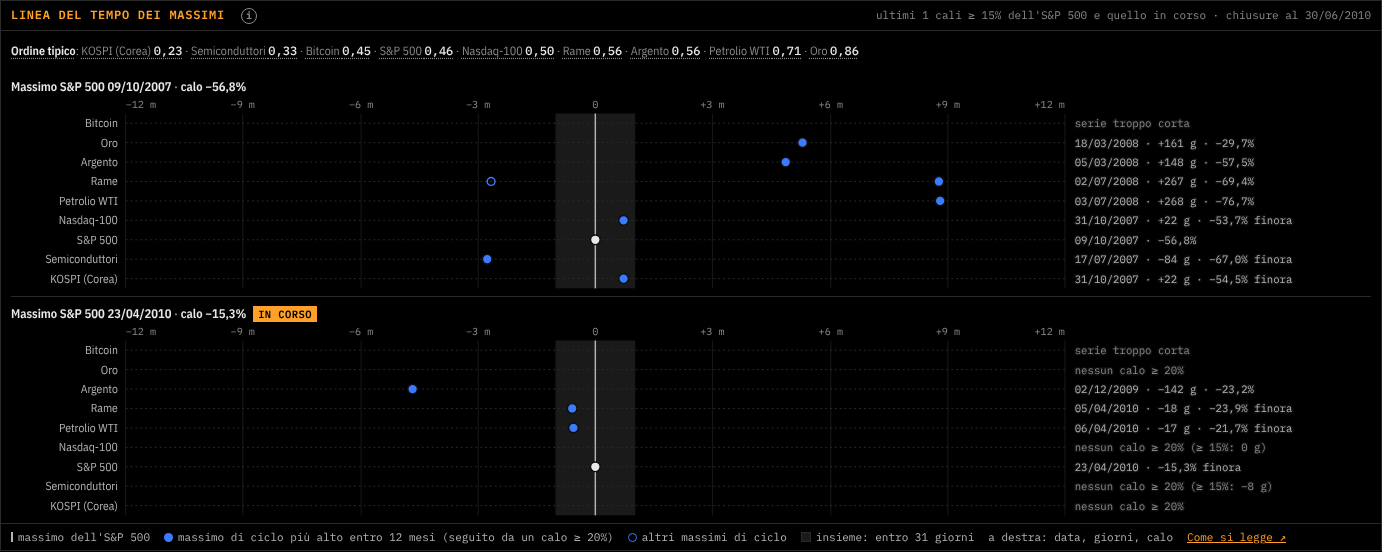
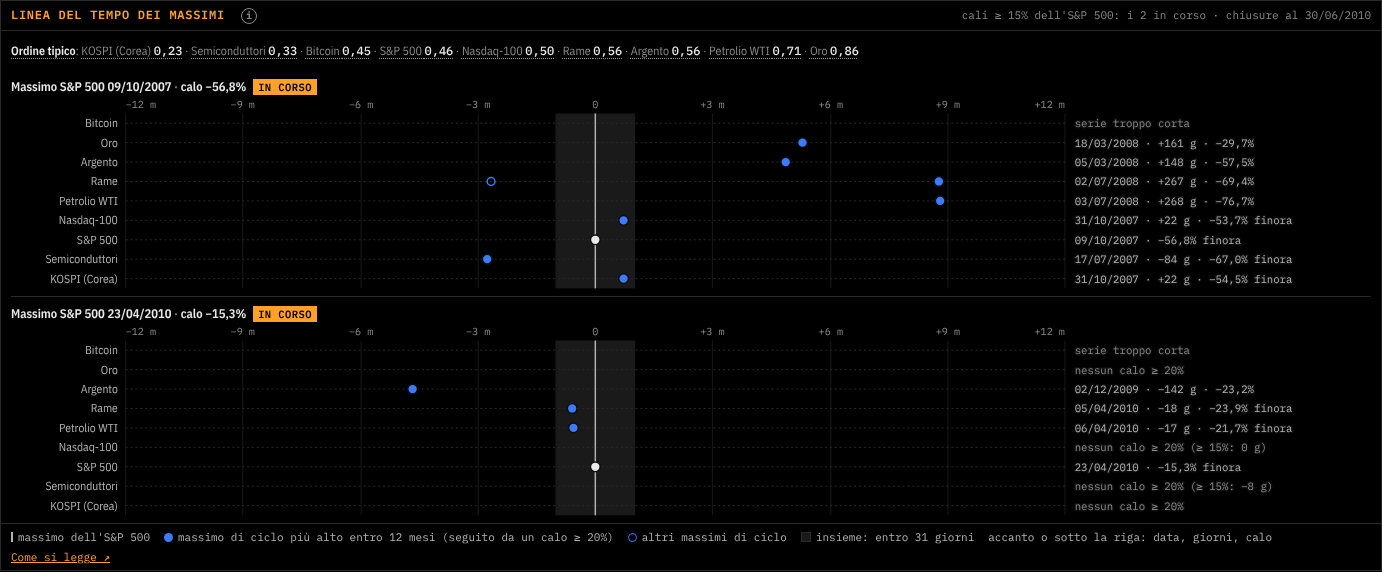
1.12.0: testi dai ricontrolli (legenda, intestazione al singolare e sotto il 15%, date dei due riquadri in corso, storico corto)
Claude-Session: https://claude.ai/code/session_01BMe5Kfp9wfPpuLZYEwjpMc

diff --git a/guida.html b/guida.html
@@ -474,11 +474,11 @@
     </ul>
 
     <h3 id="linea-massimi">Linea del tempo dei massimi</h3>
-    <p>Sotto il pannello, per gli <b>ultimi 4 cali dell'S&amp;P 500 di almeno il 15%</b> e per quello <b>in corso</b>, un riquadro per calo e una riga per mercato: la linea verticale è il giorno del massimo di chiusura dell'S&amp;P 500, il <b>punto pieno</b> il giorno del massimo di ciclo del mercato entro 12 mesi prima o dopo, i <b>cerchi vuoti</b> gli altri massimi di ciclo nella stessa finestra, la fascia grigia «insieme» (entro 31 giorni). A destra (sul telefono sotto la riga) la data, i giorni di calendario dal massimo dell'S&amp;P 500 (negativi = prima) e il calo massimo. Il cerchio e il punto, al passaggio del mouse, ripetono i loro numeri. È <b>solo descrizione</b>: nessun avviso, nessun segnale.</p>
+    <p>Sotto il pannello, per gli <b>ultimi 4 cali dell'S&amp;P 500 di almeno il 15%</b> e per quello <b>in corso</b> (a volte due, vedi sotto), un riquadro per calo e una riga per mercato: la linea verticale è il giorno del massimo di chiusura dell'S&amp;P 500, il <b>punto pieno</b> il giorno del massimo di ciclo del mercato entro 12 mesi prima o dopo, i <b>cerchi vuoti</b> gli altri massimi di ciclo nella stessa finestra, la fascia grigia «insieme» (entro 31 giorni). A destra (con la finestra stretta, sotto la riga) la data, i giorni di calendario dal massimo dell'S&amp;P 500 (negativi = prima) e il calo massimo. Il cerchio e il punto, al passaggio del mouse, ripetono i loro numeri. È <b>solo descrizione</b>: nessun avviso, nessun segnale.</p>
     <ul>
       <li><b>Massimo di ciclo</b>: una chiusura più alta di tutte quelle dei 365 giorni prima (massimo di 52 settimane), dopo la quale il prezzo scende di almeno il <b>20%</b> prima di tornare sopra. Il punto pieno è, tra i massimi di ciclo nella finestra, quello con la chiusura più alta. Il calo massimo è la chiusura più bassa dopo il massimo, fino al ritorno sopra o fino al massimo di ciclo successivo, se viene prima (senza questa regola i massimi del petrolio del 2008, 2011 e 2013 finirebbero tutti nella chiusura sotto zero del 20/04/2020). «Sotto zero»: il calo passa il 100% e non si scrive come numero. I cali dell'S&amp;P 500 si contano allo stesso modo, con la soglia del 15%.</li>
-      <li><b>Calo in corso</b>: parte dal massimo di un calo dell'S&amp;P 500 di almeno il 15% non ancora recuperato; se non ce n'è, dall'ultimo massimo di 52 settimane non ancora superato. Così un calo grande resta in vista finché l'S&amp;P 500 non torna sopra il suo massimo, anche se nel frattempo fa massimi di 52 settimane più bassi (al 31/07/2023, per esempio, il riquadro resta quello del calo del 2022). Quando un calo nuovo parte sotto un massimo più vecchio non ancora recuperato i riquadri in corso sono due (era così a giugno 2010: il calo dal 2007 e quello da aprile 2010). I cali con «finora» non sono finiti e cambiano ogni giorno; se l'S&amp;P 500 fa un nuovo massimo, il riquadro riparte da lì. Un mercato che non ha ancora perso il 20% dal suo massimo risulta «nessun calo ≥ 20%», anche se nella tabella sopra è vicino (tra parentesi lo scarto con la soglia del 15%, se c'è). Per questo la linea del tempo può dire cose diverse dalla tabella, che usa il massimo degli ultimi 3 anni e nessuna soglia.</li>
-      <li><b>Ordine tipico</b>, la riga sopra i riquadri: negli 8 cali dell'S&amp;P 500 di almeno il 15% dal 2000 al 2025 (2000, 2007, 2010, 2011, 2018, 2020, 2022, 2025), per ogni calo i mercati con un massimo nella finestra si mettono in fila per data; il rango va da 0 (primo) a 1 (ultimo) e se ne fa la media. KOSPI 0,23, semiconduttori 0,33, bitcoin 0,45, S&amp;P 500 0,46, Nasdaq-100 0,50, rame 0,56, argento 0,56, petrolio 0,71, oro 0,86. Il KOSPI e i semiconduttori fanno di solito il massimo per primi (in mediana 80 e 71 giorni prima dell'S&amp;P 500); il KOSPI non l'ha mai fatto più di un mese dopo, i semiconduttori una volta (2010). Il Nasdaq-100 lo fa insieme all'S&amp;P 500 in 5 dei 6 cali in cui ha avuto un calo del 20%. L'oro arriva dopo in tutti i 5 cali in cui ha fatto un massimo di ciclo (in mediana 161 giorni dopo). Il bitcoin non ha un posto fisso e ha dati solo per 4 cali. Al passaggio del mouse su ogni mercato: in quanti cali c'è, quante volte prima, insieme e dopo, lo scarto mediano. Sono i numeri della ricerca, fermi al 20/11/2026: l'app non li ricalcola, perché il calo del 2000 richiede chiusure del 1999 che il suo file non ha.</li>
+      <li><b>Calo in corso</b>: parte dal massimo di un calo dell'S&amp;P 500 di almeno il 15% non ancora recuperato; se non ce n'è, dall'ultimo massimo di 52 settimane non ancora superato. Così un calo grande resta in vista finché l'S&amp;P 500 non torna sopra il suo massimo, anche se nel frattempo fa massimi di 52 settimane più bassi (al 31/07/2023, per esempio, il riquadro resta quello del calo del 2022). Quando un calo nuovo parte sotto un massimo più vecchio non ancora recuperato i riquadri in corso sono due (era così dal 30/06/2010 al 03/11/2010, con il calo dal 2007 e quello da aprile 2010, e dall'08/08/2011 al 23/02/2012, con il 2007 e aprile 2011). I cali con «finora» non sono finiti e cambiano ogni giorno; se l'S&amp;P 500 supera il massimo del riquadro, il calo diventa concluso (se era di almeno il 15%) e il riquadro in corso riparte dal massimo nuovo. Quando il calo in corso è sotto il 15% l'intestazione lo dice («finora sotto il 15%»). Un mercato che non ha ancora perso il 20% dal suo massimo risulta «nessun calo ≥ 20%», anche se nella tabella sopra è vicino (tra parentesi lo scarto con la soglia del 15%, se c'è). Per questo la linea del tempo può dire cose diverse dalla tabella, che usa il massimo degli ultimi 3 anni e nessuna soglia.</li>
+      <li><b>Ordine tipico</b>, la riga sopra i riquadri: negli 8 cali dell'S&amp;P 500 di almeno il 15% dal 2000 al 2025 (2000, 2007, 2010, 2011, 2018, 2020, 2022, 2025), per ogni calo i mercati con un massimo nella finestra si mettono in fila per data; il rango va da 0 (primo) a 1 (ultimo) e se ne fa la media. KOSPI 0,23, semiconduttori 0,33, bitcoin 0,45, S&amp;P 500 0,46, Nasdaq-100 0,50, rame 0,56, argento 0,56, petrolio 0,71, oro 0,86. Il KOSPI e i semiconduttori fanno di solito il massimo per primi (in mediana 80 e 71 giorni prima dell'S&amp;P 500); il KOSPI non l'ha mai fatto più di un mese dopo, i semiconduttori una volta (2010). Il Nasdaq-100 lo fa insieme all'S&amp;P 500 in 5 dei 6 cali in cui ha avuto un calo del 20%. L'oro arriva dopo in tutti i 5 cali in cui ha fatto un massimo di ciclo (in mediana 161 giorni dopo). Il bitcoin non ha un posto fisso e ha dati solo per 4 cali. Al passaggio del mouse su ogni mercato: in quanti cali c'è, quante volte prima, insieme e dopo, lo scarto mediano. Sono i numeri della ricerca, fermi al 20/11/2026: l'app non li ricalcola, perché il calo del 2000 richiede chiusure del 1999 che il suo file non ha (per lo stesso motivo il calo del 2000 non compare nella linea del tempo).</li>
       <li><b>Perché non è un segnale</b>: prima di guardare i risultati si è deciso quando un mercato sarebbe stato un anticipatore utile (un massimo di ciclo tra 12 mesi e 30 giorni prima di almeno il 70% dei cali dell'S&amp;P 500 di almeno il 20%, con almeno 4 casi; meno della metà di falsi allarmi; tutte e due le cose anche nel 2000-2012 e nel 2013-oggi). Nessun mercato e nessun gruppo lo supera. Dal 2000 i cali dell'S&amp;P 500 di almeno il 20% sono solo 4: il KOSPI ne coglie 2, il Nasdaq-100 1. Il bitcoin coglie tutti e 4 i cali di almeno il 15% per cui ha dati, ma un suo massimo seguito da un calo del 20%, tra 12 mesi e 30 giorni prima, c'è anche nel 79,3% dei giorni presi a caso. E il massimo di chi arriva prima si riconosce spesso troppo tardi: dei 9 massimi fatti prima dell'S&amp;P 500 da semiconduttori e KOSPI nei cali conclusi, solo 3 avevano già perso il 20% il giorno del massimo dell'S&amp;P 500.</li>
       <li><b>Limiti</b>: pochi casi e non indipendenti (molti massimi cadono nelle stesse crisi); serie corte (future dal 2000, SOXX dal 2001, bitcoin dal 2014: nel calo del 2000 c'erano solo S&amp;P 500, Nasdaq-100 e KOSPI); future continui di oro, argento, rame e petrolio, che a ogni cambio di contratto si spostano un po'; KOSPI in won; soglie del 20% e del 15%, finestra di 12 mesi e massimo di 52 settimane sono scelte, e con altre i numeri cambiano. Un massimo di ciclo si riconosce solo dopo il calo: l'ordine è una ricostruzione a posteriori.</li>
       <li><b>Verifica</b>: calcolo nel browser dalle chiusure di <span class="mono">data/ath_history.json</span> (dal 2000), con lo stesso metodo della ricerca in <span class="mono">ricerca/rotazione-bolle/</span> (ramo di sviluppo: <span class="mono">backtest.md</span>, <span class="mono">tabelle.md</span>, ricalcolo indipendente in Python). Un test confronta i massimi di ciclo dell'app con quelli della ricerca, episodio per episodio (281 episodi, 0 differenze al 20/11/2026), e le 5 finestre della linea del tempo.</li>

diff --git a/js/ath-view.js b/js/ath-view.js
@@ -301,14 +301,17 @@ export function createAth(ctx) {
     if (!tl) tl = buildTimeline();
     if (!tl || !tl.episodes.length) {
       $('pkMiss').hidden = false; body.innerHTML = ''; $('pkMeta').textContent = ''; $('pkOrder').innerHTML = '';
-      $('pkMiss').textContent = 'Linea del tempo non disponibile: manca lo storico dell\'S&P 500 (data/ath_history.json). Tornerà dopo il prossimo aggiornamento.';
+      $('pkMiss').textContent = tl ? 'Linea del tempo non disponibile: lo storico dell\'S&P 500 è troppo corto (serve almeno un anno).' : 'Linea del tempo non disponibile: manca lo storico dell\'S&P 500 (data/ath_history.json). Tornerà dopo il prossimo aggiornamento.';
       return;
     }
     $('pkMiss').hidden = true;
     renderOrder(tl.ms);
     const nOn = tl.episodes.filter((e) => e.ongoing).length;
-    const nDone = tl.episodes.length - nOn, onTxt = nOn > 1 ? `i ${nOn} in corso` : 'quello in corso';
-    $('pkMeta').textContent = `${nDone ? `ultimi ${nDone} cali ≥ 15% dell'S&P 500 e ${onTxt}` : `cali ≥ 15% dell'S&P 500: ${onTxt}`} · chiusure al ${dIT(tl.asOf)}`;
+    // un calo in corso sotto il 15% (l'ultimo massimo di 52 settimane non superato) lo si dice: il titolo parla di cali ≥ 15%
+    const small = nOn === 1 && tl.episodes.some((e) => e.ongoing && !(e.ddPct <= -15));
+    const nDone = tl.episodes.length - nOn, onTxt = nOn > 1 ? `i ${nOn} in corso` : small ? 'il calo in corso, finora sotto il 15%' : 'quello in corso';
+    const doneTxt = nDone === 1 ? "ultimo calo ≥ 15% dell'S&P 500" : `ultimi ${nDone} cali ≥ 15% dell'S&P 500`;
+    $('pkMeta').textContent = `${nDone ? `${doneTxt} e ${onTxt}` : small ? `S&P 500: ${onTxt}` : `cali ≥ 15% dell'S&P 500: ${onTxt}`} · chiusure al ${dIT(tl.asOf)}`;
     body.innerHTML = '';
     for (const ep of tl.episodes) {
       const box = document.createElement('div');

diff --git a/index.html b/index.html
@@ -518,7 +518,7 @@
       <p class="note pb pkorder" id="pkOrder"></p>
       <p class="note pb" id="pkMiss" hidden></p>
       <div class="pkbody" id="pkBody"></div>
-      <div class="legend" id="pkLegend"><span><span class="kl pkk-zero"></span>massimo dell'S&amp;P 500</span><span><span class="kd pkk-dot"></span>massimo di ciclo più alto entro 12 mesi (seguito da un calo ≥ 20%)</span><span><span class="kd pkk-alt"></span>altri massimi di ciclo</span><span><span class="kb pkk-band"></span>insieme: entro 31 giorni</span><span>a destra: data, giorni, calo</span><span><a href="guida.html#linea-massimi" target="_blank" rel="noopener">Come si legge ↗</a></span></div>
+      <div class="legend" id="pkLegend"><span><span class="kl pkk-zero"></span>massimo dell'S&amp;P 500</span><span><span class="kd pkk-dot"></span>massimo di ciclo più alto entro 12 mesi (seguito da un calo ≥ 20%)</span><span><span class="kd pkk-alt"></span>altri massimi di ciclo</span><span><span class="kb pkk-band"></span>insieme: entro 31 giorni</span><span>accanto o sotto la riga: data, giorni, calo</span><span><a href="guida.html#linea-massimi" target="_blank" rel="noopener">Come si legge ↗</a></span></div>
     </div>
   </section>
   <!-- 9 ALERT -->

diff --git a/js/peaks.js b/js/peaks.js
@@ -13,7 +13,7 @@
  *  - calo in corso: i massimi di ciclo ≥ 15% dell'S&P 500 non ancora recuperati, se ci sono (decisione dell'utente del
  *    22/11/2026: altrimenti, con un nuovo massimo di 52 settimane più basso, il calo grande sparirebbe, come al 31/07/2023
  *    con quello del 2022). Di solito uno; due quando un calo nuovo parte sotto un massimo più vecchio non ancora
- *    recuperato (per esempio a giugno 2010: 2007 e aprile 2010). Se non ce ne sono, l'ultimo massimo di 52 settimane non
+ *    recuperato (dal 30/06/2010 al 03/11/2010: 2007 e aprile 2010; dall'08/08/2011 al 23/02/2012: 2007 e aprile 2011). Se non ce ne sono, l'ultimo massimo di 52 settimane non
  *    ancora superato. Calo fino all'ultima seduta.
  * Calcolato nel browser dalle chiusure di data/ath_history.json (dal 2000). Il test test/peaks.test.js confronta i
  * risultati, episodio per episodio, con ricerca/rotazione-bolle/risultati.json (fixture test/fixtures/peaks_20261120.json.gz).

diff --git a/README.md b/README.md
@@ -103,7 +103,7 @@ Strumento di studio: non è consulenza finanziaria né una raccomandazione di in
 - **9 Alert**: registro dei cambi di stato dal 2005 con statistiche riassuntive, regole e stato delle notifiche Telegram (statistiche e registro dei soli 11 settori; gli alert Telegram valgono anche per il SOXX).
 - **0 Massimi** (dalla 1.12.0, `js/ath-view.js`; tasto 0, indirizzo `#ath`, comandi `MASSIMI`, `MASSIMO`, `ATH`, `MAX`, `BOLLE`): solo contesto. Dati scaricati alla prima apertura della vista, indipendenti da `data/vix.json`; chiavi del browser `athSort` e `athRange` e gruppo di zoom `ath` come prima. Pannello **Distanza dal massimo degli ultimi 3 anni** (dalla 1.10.0, fino alla 1.11.0 nella vista 8 VIX) (`js/ath.js`, dati in `data/ath.json` e, per il grafico, `data/ath_history.json` da `scripts/fetch_ath.js`, mercati in `config/ath.json`): riferimento il massimo di chiusura degli ultimi 3 anni (scelta dell'utente: il picco dell'ultimo ciclo, non il massimo di sempre), solo prezzo, nella valuta di quotazione; massimo di sempre nel dettaglio; oro, argento, rame e petrolio con il future continuo di Yahoo (chiusura al regolamento; dalla 1.10.1, prima oro e argento erano GLD e SLV; niente USO); idea da una slide di Francesco Caruso (Cicli&Mercati). Verifica in `ricerca/bolle-rotazione/`. Dalla 1.11.0 accanto al grafico del prezzo il **profilo dei volumi degli ultimi 12 mesi** (`profiles` in `data/ath_history.json`, calcolo in `scripts/lib/volprofile.js`): vedi sotto.
   - **Profilo dei volumi** (dalla 1.11.0, pannello della distanza dal massimo; ricerca, criterio e prototipo in `ricerca/poc/profilo/`, `sintesi.md`): colonna stretta tra il riquadro del prezzo e i valori dell'asse (8% della larghezza, da 44 a 110 px), con la quota del volume degli ultimi 12 mesi per fascia di prezzo. Metodo: finestra dalla stessa data di un anno prima all'ultima seduta del grafico; barre giornaliere di Yahoo, volume di ogni seduta diviso in parti uguali sulla scala logaritmica tra minimo e massimo della seduta; 100 fasce uguali sulla scala logaritmica tra il minimo e il massimo delle sedute; quote in centesimi di punto (`bp`, l'app divide per la somma, che per gli arrotondamenti va da circa 9.990 a 10.005). Strumenti (`config/ath.json`, `profile`): S&P 500 ← SPY, Nasdaq-100 ← QQQ, KOSPI ← 069500.KS (KODEX 200, segue il KOSPI 200), con i prezzi riportati sulla scala dell'indice con il rapporto delle chiusure della stessa seduta (sedute senza le due chiusure scartate); bitcoin, oro, petrolio e SOXX ← volume della stessa serie del grafico; argento e rame ← barre orarie di SI=F e HG=F (regola: se il volume giornaliero è meno della metà della somma oraria della stessa seduta, mediana dei 12 mesi, la barra del giorno si fa dalle orarie: massimo, minimo, somma dei volumi; con le orarie la seduta dei future va dalle 18 di New York del giorno prima). Prezzi dei future continui così come sono. Sul grafico le fasce si uniscono a gruppi (divisori di 100) finché ogni barra è alta almeno 3 px; riquadro con gli estremi e la quota della barra mostrata; colonna tolta se lo zoom non arriva alla fine del profilo. Regole d'errore (`buildProfile`): volume uguale a quello della seduta prima tolto (copia di Yahoo sull'ultima seduta dei future), nessun profilo con più del 5% di sedute senza chiusura comune, più del 10% senza volume, un prezzo ≤ 0 nella finestra o barre orarie che partono più di 7 giorni dopo l'inizio. Stabilità: il criterio deciso prima della ricerca (value area del 70% entro il 2% tra 6 varianti, sovrapposizione ≥ 0,85 con le alternative, ≥ 0,90 da un giorno all'altro nelle ultime 60 sedute) lo passano 6 mercati su 9; oro, Nasdaq-100 e KOSPI no (due zone di volume quasi uguali: la value area cambia tra barre giornaliere e orarie) e sono mostrati per scelta dell'utente del 13/11/2026 con l'avvertenza nella legenda e nel riquadro (`stable: false` e `stableNote` nel file). Il criterio è misurato al 12/11/2026 e non si ricalcola ogni notte. Approssimazioni dette nell'app (legenda, riquadro, guida): volume spalmato e non singoli scambi; ETF al posto degli indici; KODEX 200 segue il KOSPI 200; volume del bitcoin aggregato da Yahoo su piattaforme non dichiarate; future continui con i prezzi del contratto di allora; una sola fonte. Verifiche: `test/volprofile.test.js` riproduce i `bp` di `ricerca/poc/profilo/profilo_app.json` (S&P 500 e argento) su un estratto dei dati (`test/fixtures/volprofile_spx_si.json.gz`, scritto da `ricerca/poc/profilo/fixture.mjs`); `ricerca/poc/profilo/confronto_app.mjs` confronta la pipeline con `analisi.mjs` sulle stesse risposte di Yahoo (cache della ricerca e corsa di `fetch_ath.js` con `ATH_RAW_DIR`): 9 mercati su 9 con le stesse fasce; `analisi.mjs` a sua volta è ricalcolato in modo indipendente da `verifica.py`.
-  - **Linea del tempo dei massimi** (dalla 1.12.0, `js/peaks.js`; ricerca in `ricerca/rotazione-bolle/`, `backtest.md`, prototipo approvato `linea-del-tempo.html`): solo descrizione, nessun avviso. Per gli ultimi 4 cali conclusi dell'S&P 500 di almeno il 15% e per quello in corso (il massimo di ciclo ≥ 15% dell'S&P 500 non ancora recuperato, se c'è, altrimenti l'ultimo massimo di 52 settimane non ancora superato; due riquadri «in corso» quando un calo nuovo parte sotto un massimo più vecchio non recuperato, come a giugno 2010; decisione dell'utente del 22/11/2026, `currentPeaks`), per ogni mercato il massimo di ciclo ≥ 20% più alto entro ±365 giorni (punto pieno), gli altri (cerchi vuoti), la fascia «insieme» di ±31 giorni; a destra data, giorni di scarto e calo massimo («finora» se non è finito). Massimo di ciclo: chiusura più alta dei 365 giorni prima (con un anno di storia), seguita da un calo ≥ X% prima di una chiusura più alta; calo massimo fino al ritorno sopra o al massimo di ciclo successivo. Calcolo nel browser dalle chiusure di `data/ath_history.json` (dal 2000), stesso metodo di `ricerca/rotazione-bolle/script/backtest.mjs`. Sopra, l'**ordine tipico** (rango medio negli 8 cali ≥ 15% dal 2000 al 2025, tabella T3 della ricerca), costante `ORDER` di `js/peaks.js`: non si ricalcola perché il calo del 2000 richiede chiusure del 1999, che il file dell'app non ha (detto nella guida, `#linea-massimi`). Test `test/peaks.test.js`: 281 massimi di ciclo (9 mercati, soglie 10-40%, dalla prima data possibile con il file dell'app), le 5 finestre della linea del tempo e i ranghi dei 7 cali dal 2007 uguali a `risultati.json`, e la media con il calo del 2000 uguale a `ORDER`; fixture `test/fixtures/peaks_20261120.json.gz` (chiusure al 20/11/2026 e valori attesi) scritta da `ricerca/rotazione-bolle/script/fixture.mjs`. Controllo nel browser `ricerca/qa/browser/v1120.cjs`.
+  - **Linea del tempo dei massimi** (dalla 1.12.0, `js/peaks.js`; ricerca in `ricerca/rotazione-bolle/`, `backtest.md`, prototipo approvato `linea-del-tempo.html`): solo descrizione, nessun avviso. Per gli ultimi 4 cali conclusi dell'S&P 500 di almeno il 15% e per quello in corso (il massimo di ciclo ≥ 15% dell'S&P 500 non ancora recuperato, se c'è, altrimenti l'ultimo massimo di 52 settimane non ancora superato; due riquadri «in corso» quando un calo nuovo parte sotto un massimo più vecchio non recuperato, come dal 30/06/2010 al 03/11/2010; decisione dell'utente del 22/11/2026, `currentPeaks`), per ogni mercato il massimo di ciclo ≥ 20% più alto entro ±365 giorni (punto pieno), gli altri (cerchi vuoti), la fascia «insieme» di ±31 giorni; a destra data, giorni di scarto e calo massimo («finora» se non è finito). Massimo di ciclo: chiusura più alta dei 365 giorni prima (con un anno di storia), seguita da un calo ≥ X% prima di una chiusura più alta; calo massimo fino al ritorno sopra o al massimo di ciclo successivo. Calcolo nel browser dalle chiusure di `data/ath_history.json` (dal 2000), stesso metodo di `ricerca/rotazione-bolle/script/backtest.mjs`. Sopra, l'**ordine tipico** (rango medio negli 8 cali ≥ 15% dal 2000 al 2025, tabella T3 della ricerca), costante `ORDER` di `js/peaks.js`: non si ricalcola perché il calo del 2000 richiede chiusure del 1999, che il file dell'app non ha (detto nella guida, `#linea-massimi`). Test `test/peaks.test.js`: 281 massimi di ciclo (9 mercati, soglie 10-40%, dalla prima data possibile con il file dell'app), le 5 finestre della linea del tempo e i ranghi dei 7 cali dal 2007 uguali a `risultati.json`, e la media con il calo del 2000 uguale a `ORDER`; fixture `test/fixtures/peaks_20261120.json.gz` (chiusure al 20/11/2026 e valori attesi) scritta da `ricerca/rotazione-bolle/script/fixture.mjs`. Controllo nel browser `ricerca/qa/browser/v1120.cjs`.
 - **Industrie accanto ai settori** (dalla 1.9.0, richiesta dell'utente): i semiconduttori, ETF iShares SOXX, dentro XLK. Configurazione in `config/industries.json`, livello blu 3% in `config/thresholds.json` (analisi SOXX di Massimo Rea, quant-rea: con 30 titoli vuol dire nessun titolo sopra la media 200). Breadth ricostruita con i membri di oggi dalla lista iShares, dal 2001: confrontata con le composizioni storiche del PHLX SOX, scarto medio da −0,7 a +4,9 punti, vicino ai minimi da −2 a +3, stesse zone blu (ricerca e backtest in `ricerca/soxx/`). Nel browser il calendario dei settori si allunga all'indietro al 2001 con valori vuoti per gli 11 settori, i cui numeri non cambiano (`js/industries.js`, test in `test/industries.test.js`); un'industria indietro di una seduta mostra la sua data. Restano sui soli 11 settori i riquadri «/ 11» del Monitor, le statistiche dell'avvicinamento e la vista 9.
 
 **Comandi** (barra in alto, oppure `/`):
@@ -171,7 +171,7 @@ Dopo ogni aggiornamento la Action invia solo i nuovi cambi di stato (zona blu, t
 ## Versioni
 Il numero è in alto accanto al nome (`js/version.js`), con le novità al passaggio del mouse. A ogni pubblicazione si cambia insieme a `version.json`, che il browser legge sempre senza cache: se i due numeri non coincidono, il browser sta usando file vecchi e in alto compare «Nuova versione: ricarica». Dalla 1.0.0 lo schema è semver: la prima cifra per un cambio che rompe qualcosa (regole, formati dei dati), la seconda per una funzione nuova, l'ultima per le correzioni; prima era `0.vista.correzione`.
 
-- **1.12.0** (22/11/2026): nuova vista **0 Massimi** (decima scheda in coda, tasto 0, `#ath`, comandi `MASSIMI`, `ATH`, `MAX`, `BOLLE`; le altre schede non cambiano numero; sul telefono e sul tablet le schede vanno su 2 righe di 5), con il pannello «Distanza dal massimo degli ultimi 3 anni», il grafico e il profilo dei volumi spostati dalla vista 8 VIX (nuovo modulo `js/ath-view.js`, dati alla prima apertura della vista e non più insieme al VIX; stesse scelte salvate nel browser). Nel VIX una riga rimanda alla nuova vista. Nuova **linea del tempo dei massimi** (`js/peaks.js`), come il prototipo approvato in `ricerca/rotazione-bolle/`: per gli ultimi 4 cali dell'S&P 500 di almeno il 15% e per quello in corso (finché un calo ≥ 15% non è recuperato resta quello), il giorno del massimo di ciclo di ogni mercato rispetto al massimo dell'S&P 500, con l'ordine tipico della ricerca; solo descrizione (nel backtest nessun mercato anticipa i cali in modo affidabile). Guida: nuova sezione `#ath` con `#massimi`, `#profilo-volumi` e `#linea-massimi`. Test `test/peaks.test.js`, controllo nel browser `ricerca/qa/browser/v1120.cjs` (immagini in `ricerca/qa/1.12.0/shots/`); `v1100.cjs`, `v1101.cjs` e `v1110.cjs` aprono `#ath`.
+- **1.12.0** (22/11/2026): nuova vista **0 Massimi** (decima scheda in coda, tasto 0, `#ath`, comandi `MASSIMI`, `MASSIMO`, `ATH`, `MAX`, `BOLLE`; le altre schede non cambiano numero; sul telefono e sul tablet le schede vanno su 2 righe di 5), con il pannello «Distanza dal massimo degli ultimi 3 anni», il grafico e il profilo dei volumi spostati dalla vista 8 VIX (nuovo modulo `js/ath-view.js`, dati alla prima apertura della vista e non più insieme al VIX; stesse scelte salvate nel browser). Nel VIX una riga rimanda alla nuova vista. Nuova **linea del tempo dei massimi** (`js/peaks.js`), come il prototipo approvato in `ricerca/rotazione-bolle/`: per gli ultimi 4 cali dell'S&P 500 di almeno il 15% e per quello in corso (finché un calo ≥ 15% non è recuperato resta quello; due riquadri quando un calo nuovo parte sotto un massimo più vecchio non recuperato), il giorno del massimo di ciclo di ogni mercato rispetto al massimo dell'S&P 500, con l'ordine tipico della ricerca; solo descrizione (nel backtest nessun mercato anticipa i cali in modo affidabile). Guida: nuova sezione `#ath` con `#massimi`, `#profilo-volumi` e `#linea-massimi`. Test `test/peaks.test.js`, controllo nel browser `ricerca/qa/browser/v1120.cjs` (immagini in `ricerca/qa/1.12.0/shots/`); `v1100.cjs`, `v1101.cjs` e `v1110.cjs` aprono `#ath`.
 - **1.11.0** (13/11/2026): vista 8, pannello «Distanza dal massimo degli ultimi 3 anni»: accanto al grafico del prezzo il **profilo dei volumi degli ultimi 12 mesi** per tutti e 9 i mercati, come il prototipo approvato dall'utente (`ricerca/poc/profilo/prototipo/`): solo la forma, barre grigie unite finché alte almeno 3 px, linea tratteggiata all'inizio dei 12 mesi, riquadro sulla barra con la fascia, la quota e lo strumento; niente POC, value area o livelli. Il criterio di stabilità deciso prima lo passano 6 mercati su 9; oro, Nasdaq-100 e KOSPI sono mostrati con l'avvertenza «profilo poco stabile» (scelta dell'utente del 13/11/2026). Pipeline: `fetch_ath.js` scrive `profiles` in `data/ath_history.json` (5 richieste in più a Yahoo: SPY, QQQ e 069500.KS giornalieri, 13 mesi, e SI=F e HG=F orari; circa 1,3-1,4 MB; gli altri 4 mercati usano la serie del grafico); un profilo che non arriva o arriva più vecchio tiene quello pubblicato fino a `maxAge` giorni, poi diventa null (l'app lo dice nella legenda); il passo non fallisce per il profilo, `check_fresh.js` segnala un profilo fermo o mancante oltre `maxAge`. `scripts/lib/yahoo.js`: `fetchChart`, `parse` con `withVolume` (minimo e volume, uscita di prima invariata senza l'opzione), `parseHourly`. Test `test/volprofile.test.js`, controllo nel browser `ricerca/qa/browser/v1110.cjs` (immagini in `ricerca/qa/1.11.0/shots/`).
 - **1.10.2** (13/11/2026): `fetch_ath.js`: se Yahoo ridà un mercato con una seduta più vecchia della riga pubblicata (il KOSPI del 13/11/2026, chiusura vuota nella serie giornaliera alle 18:42 UTC) si tiene la riga pubblicata con un avviso, senza far fallire il passo e l'esito della corsa (falso allarme della corsa 219); il passo fallisce solo se un mercato non arriva o ha la storia accorciata. Se resta indietro per giorni lo segnala `check_fresh.js`.
 - **1.10.1** (13/11/2026): pannello «Distanza dal massimo degli ultimi 3 anni»: oro e argento con i future GC=F e SI=F invece degli ETF GLD e SLV (scelta dell'utente). Verifica in `ricerca/poc/sintesi.md` (parte A): le chiusure di Yahoo sono i prezzi di regolamento del CME (controllate 4 sedute); il massimo dell'argento del 26/01/2026 è vero (crollo dopo le 13:30, ora del regolamento); ai cambi di contratto il livello si sposta. Note in `config/ath.json`, nella guida e nell'app. `fetch_ath.js` tiene la riga pubblicata solo se è dello stesso simbolo. Ricerca sul POC degli ultimi 12 mesi in `ricerca/poc/`: non robusto in 7 mercati su 9, non mostrato.

diff --git a/docs/sviluppo.md b/docs/sviluppo.md
@@ -202,7 +202,7 @@ Workflow `.github/workflows/update-data.yml`, alle 22:40 UTC, ogni ora dalle 01:
 - **1.4.0 (05/11/2026)**: vista 8 Emergenti, solo contesto, dal piano `ricerca/emergenti/inserimento.md`. Il file `data/emerging.json` lo crea la Action: finché non c'è, la vista dice che i dati non sono disponibili. Controllo nel browser `ricerca/qa/browser/v140.cjs`.
 - **1.4.1 (05/11/2026)**: schede riordinate su richiesta dell'utente: 1 Monitor, 2 Rotazione, 3 Bottom Map, 4 Settore, 5 Titoli, 6 Indici, 7 Emergenti, 8 Alert (`VIEWS` in `js/app.js`); indirizzi e comandi invariati. Le note storiche usano i numeri di allora (Titoli era la 7, Alert la 5, Emergenti la 8).
 - **1.5.0 (06/11/2026)**: vista 8 VIX (Alert alla 9), dalla verifica in `ricerca/vix/` (idea di Massimo Rea). Il file `data/vix.json` lo crea la Action: finché non c'è, la vista dice che i dati non sono disponibili. Test: `test/vix.test.js` (valori verificati con lo script di ricerca), controllo nel browser `ricerca/qa/browser/v150.cjs`.
-- **1.12.0 (22/11/2026, ramo di sviluppo)**: vista 0 Massimi dal piano `ricerca/semplificazione/piano.md` §4 e linea del tempo dei massimi da `ricerca/rotazione-bolle/` (decisioni dell'utente del 22/11/2026). `js/ath-view.js` (codice spostato da `js/vix-view.js`, stesse chiavi del browser e stesso zoom), `js/peaks.js` con `test/peaks.test.js` (281 massimi di ciclo, 5 finestre e ranghi uguali a `risultati.json`). Comandi `MASSIMI`, `MASSIMO`, `ATH`, `MAX`, `BOLLE` (`MAX` non è un ticker degli universi di oggi; il piano sconsigliava `MAX` perché è anche un ticker di borsa: se un giorno entra negli universi, il comando vince sul ticker). Limiti: l'ordine tipico non si ricalcola nel browser (il calo del 2000 richiede le chiusure del 1999, che `data/ath_history.json` non ha: lo dice la guida); i testi lunghi delle note del pannello restano com'erano fino alla 1.13.0 (note più corte). Controlli nel browser `ricerca/qa/browser/v1120.cjs` (250 OK, 0 FAIL; sulla 1.11.0 49 FAIL; log e immagini in `ricerca/qa/1.12.0/`) e `v1100`, `v1101`, `v1110` portati su `#ath` (tutti verdi), più i controlli indipendenti in `ricerca/qa/1.12.0/numeri-codice/` (GO) e `uso-testi/` (NO-GO per le etichette dell'asse della linea del tempo sovrapposte tra 720 e 880 px: corretto con il formato stretto quando ai 24 mesi restano meno di 520 px, ricontrollo in `ricerca/qa/1.12.0/ricontrollo/`). Corretti anche: nomi dei mercati senza `data/ath.json`, «al massimo» al posto di «calo —», testi più corti (ordine tipico, legenda, «i»), indice della guida numerato, comando `MASSIMO` nella guida. Regola cambiata con l'utente (22/11/2026) dopo il rilievo 1 di `numeri-codice`: «in corso» è il massimo di ciclo ≥ 15% dell'S&P 500 non ancora recuperato (prima un calo non recuperato spariva con un nuovo massimo di 52 settimane più basso, come al 31/07/2023 con il 2022); se ce ne sono due annidati (giugno 2010: 2007 e aprile 2010) si mostrano entrambi; senza cali aperti, l'ultimo massimo di 52 settimane non superato. `currentPeaks` in `js/peaks.js`, test sui tagli al 31/07/2023, 30/06/2010 e 30/03/2012; `casi-limite.mjs` senza problemi. Minori aperti: al telefono punti e cerchi vuoti non mostrano i numeri al tocco (solo `<title>` col mouse); nel riquadro del calo in corso nessun segno «oggi» (la parte vuota può sembrare definitiva) e l'intestazione «e quello in corso» non dice che è sotto il 15%; testi della linea del tempo a 9,6 px tra 1100 e 1300 px; una serie ferma da mesi risulta «nessun calo ≥ 20%» e non «dati fermi» (lo segnala `check_fresh.js`); al telefono alcune schede vanno su due righe e altre su una.
+- **1.12.0 (22/11/2026, ramo di sviluppo)**: vista 0 Massimi dal piano `ricerca/semplificazione/piano.md` §4 e linea del tempo dei massimi da `ricerca/rotazione-bolle/` (decisioni dell'utente del 22/11/2026). `js/ath-view.js` (codice spostato da `js/vix-view.js`, stesse chiavi del browser e stesso zoom), `js/peaks.js` con `test/peaks.test.js` (281 massimi di ciclo, 5 finestre e ranghi uguali a `risultati.json`). Comandi `MASSIMI`, `MASSIMO`, `ATH`, `MAX`, `BOLLE` (`MAX` non è un ticker degli universi di oggi; il piano sconsigliava `MAX` perché è anche un ticker di borsa: se un giorno entra negli universi, il comando vince sul ticker). Limiti: l'ordine tipico non si ricalcola nel browser (il calo del 2000 richiede le chiusure del 1999, che `data/ath_history.json` non ha: lo dice la guida); i testi lunghi delle note del pannello restano com'erano fino alla 1.13.0 (note più corte). Controlli nel browser `ricerca/qa/browser/v1120.cjs` (250 OK, 0 FAIL; sulla 1.11.0 49 FAIL; log e immagini in `ricerca/qa/1.12.0/`) e `v1100`, `v1101`, `v1110` portati su `#ath` (tutti verdi), più i controlli indipendenti in `ricerca/qa/1.12.0/numeri-codice/` (GO) e `uso-testi/` (NO-GO per le etichette dell'asse della linea del tempo sovrapposte tra 720 e 880 px: corretto con il formato stretto quando ai 24 mesi restano meno di 520 px, ricontrollo in `ricerca/qa/1.12.0/ricontrollo/`). Corretti anche: nomi dei mercati senza `data/ath.json`, «al massimo» al posto di «calo —», testi più corti (ordine tipico, legenda, «i»), indice della guida numerato, comando `MASSIMO` nella guida. Regola cambiata con l'utente (22/11/2026) dopo il rilievo 1 di `numeri-codice`: «in corso» è il massimo di ciclo ≥ 15% dell'S&P 500 non ancora recuperato (prima un calo non recuperato spariva con un nuovo massimo di 52 settimane più basso, come al 31/07/2023 con il 2022); se ce ne sono due annidati (dal 30/06/2010 al 03/11/2010: 2007 e aprile 2010; dall'08/08/2011 al 23/02/2012: 2007 e aprile 2011) si mostrano entrambi; senza cali aperti, l'ultimo massimo di 52 settimane non superato. `currentPeaks` in `js/peaks.js`, test sui tagli al 31/07/2023, 30/06/2010 e 30/03/2012; `casi-limite.mjs` senza problemi. Controlli indipendenti: `ricerca/qa/1.12.0/ricontrollo/` (asse, GO) e `regola-qa/` (ricalcolo da zero su 6263 sedute dal 2002, 0 differenze; GO). Corretti dopo: legenda «accanto o sotto la riga», intestazione al singolare e «finora sotto il 15%» quando il calo in corso è più piccolo, date esatte dei due riquadri in corso, messaggio con lo storico troppo corto, guida sul calo del 2000 che non compare. Minori aperti: al telefono punti e cerchi vuoti non mostrano i numeri al tocco (solo `<title>` col mouse); nel riquadro del calo in corso nessun segno «oggi» (la parte vuota può sembrare definitiva) e l'intestazione «e quello in corso» non dice che è sotto il 15%; testi della linea del tempo a 9,6 px tra 1100 e 1300 px; una serie ferma da mesi risulta «nessun calo ≥ 20%» e non «dati fermi» (lo segnala `check_fresh.js`); al telefono alcune schede vanno su due righe e altre su una. Dai ricontrolli: il ridisegno dopo un ridimensionamento parte solo oltre 40 px (attraversando di poco la soglia del formato stretto, circa 1030 px, resta il formato vecchio fino al ricaricamento); `ath-view.js` decodifica con `ps || 1` se manca `ps` (il file lo scrive sempre).
 - **1.11.0 (13/11/2026)**: profilo dei volumi degli ultimi 12 mesi accanto al grafico del pannello dei massimi, per tutti e 9 i mercati (oro, Nasdaq-100 e KOSPI con l'avvertenza: scelta dell'utente), dal piano `ricerca/poc/profilo/sintesi.md` §6.2. Pipeline: `scripts/lib/volprofile.js`, `fetch_ath.js` (`profiles` in `data/ath_history.json`), `check_fresh.js`; i `bp` coincidono con `analisi.mjs` sulle stesse risposte di Yahoo per 9 mercati su 9 (`confronto_app.mjs`, sia sulla cache della ricerca sia su una corsa della pipeline del 13/11/2026 alle 20:20 UTC); rispetto a `profilo_app.json` (dati delle 07:16) cambiano di 1 bp il Nasdaq-100 e il SOXX (Yahoo ha rivisto il volume del 12/11 di QQQ e SOXX) e il KOSPI (Yahoo ridà la serie fino al 12/11 invece che al 13/11: profilo dal 12/11/2025 al 12/11/2026). Due corse di fila: file identici a parte `generated`. Test: `npm test` 192 verdi (nuovo `test/volprofile.test.js`); nel browser `ricerca/qa/browser/v1110.cjs` 2.845 controlli, 0 falliti (risultato in `ricerca/qa/1.11.0/v1110.txt`, immagini in `ricerca/qa/1.11.0/shots/`), sulla 1.10.2 fallisce (97 su 101 a 1440). Controlli fatti da chi ha scritto il codice: mancano ancora i controlli indipendenti della fase 3 e le immagini da mostrare all'utente prima di pubblicare. Limiti aperti: il criterio di stabilità è misurato una volta (12/11/2026) e non si ricalcola ogni notte; la quota del riquadro dipende da quante fasce si uniscono (computer e telefono diversi); con uno zoom che arriva all'ultima seduta la scala si allarga ai 12 mesi del profilo. Controlli indipendenti in `ricerca/qa/1.11.0/numeri/` e `uso-testi/` (GO); corretti prima di pubblicare: motivo dell'avvertenza (metodi di calcolo diversi, non solo giornaliero/orario), copertura dei volumi nella finestra (oltre il 5% di sedute mancanti: niente profilo), estremi con 10 cifre significative (bitcoin). Minori aperti: legenda «lo zoom non arriva all'ultima seduta» se il profilo finisse dopo il grafico (oggi non succede); con lo zoom fino all'ultima seduta la scala si allarga ai 12 mesi e la legenda cita l'inizio dei 12 mesi anche se la linea non si vede; il riquadro delle barre non si apre da tastiera; quote del riquadro arrotondate a bp interi (fino a 0,03 punti); nel log di `fetch_ath.js` il motivo è «non arrivato» anche quando fallisce il calcolo; il testo «dalle barre orarie» di argento e rame è fisso in `config/ath.json`.
 - **1.10.2 (13/11/2026)**: falso allarme della corsa delle 18:42 UTC (KOSPI con una seduta in meno da Yahoo): ora solo un avviso. Controllato con una simulazione (riga pubblicata più recente, esito 0 e avviso) e `npm test`, senza agente indipendente.
 - **1.10.1 (13/11/2026)**: oro e argento con i future nel pannello dei massimi (scelta dell'utente), verifica in `ricerca/poc/sintesi.md` parte A.
